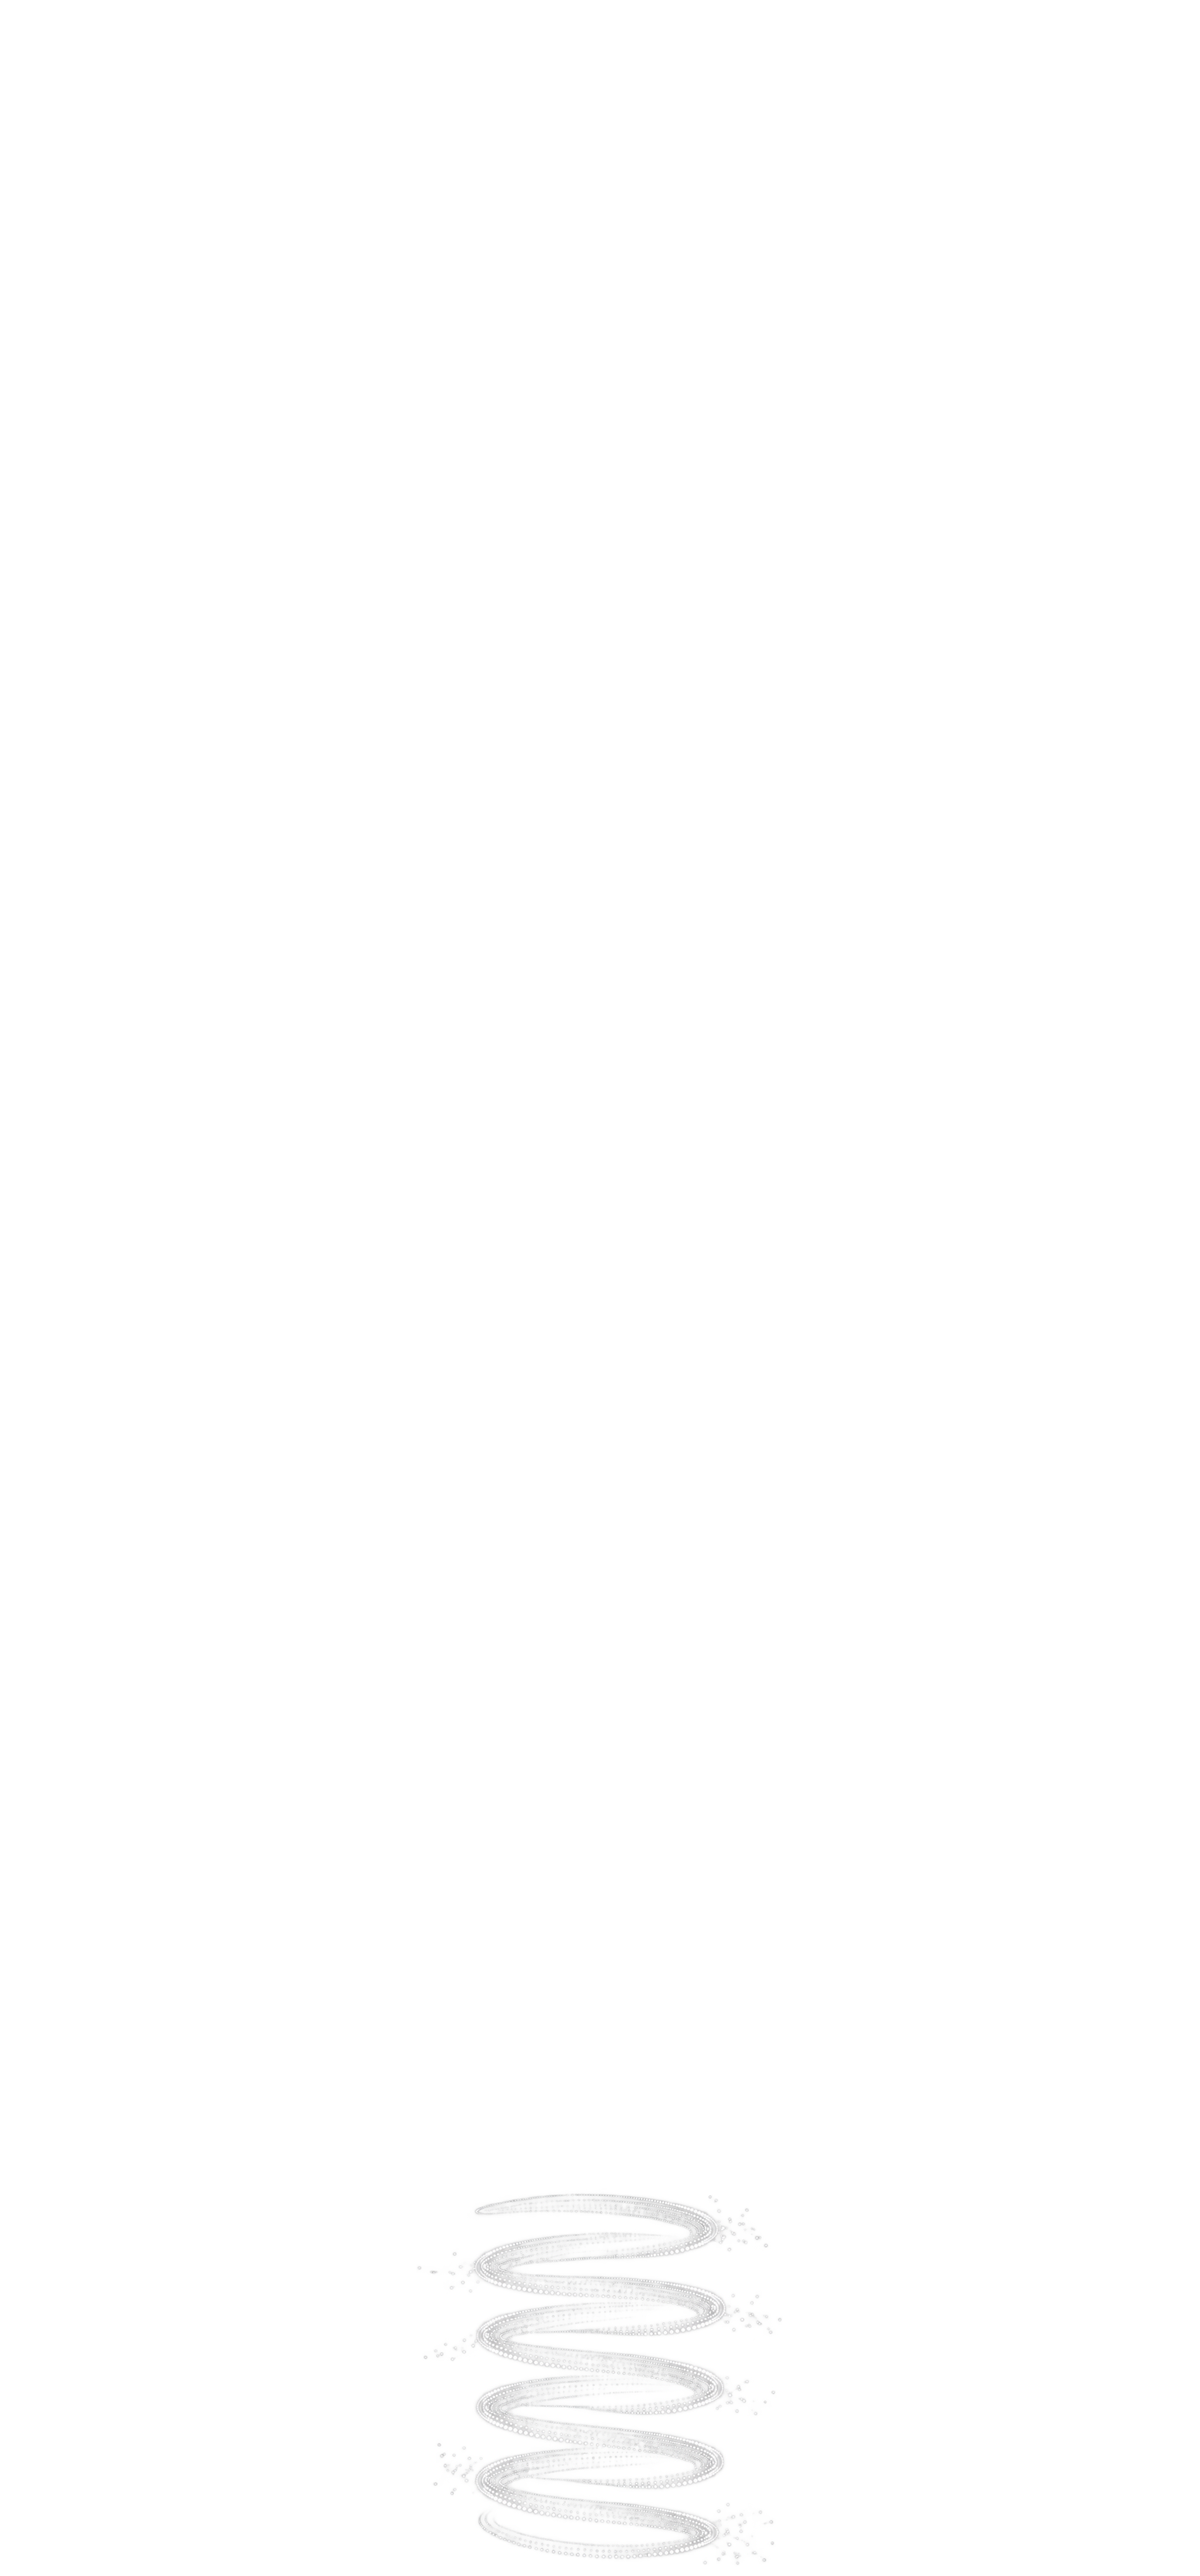
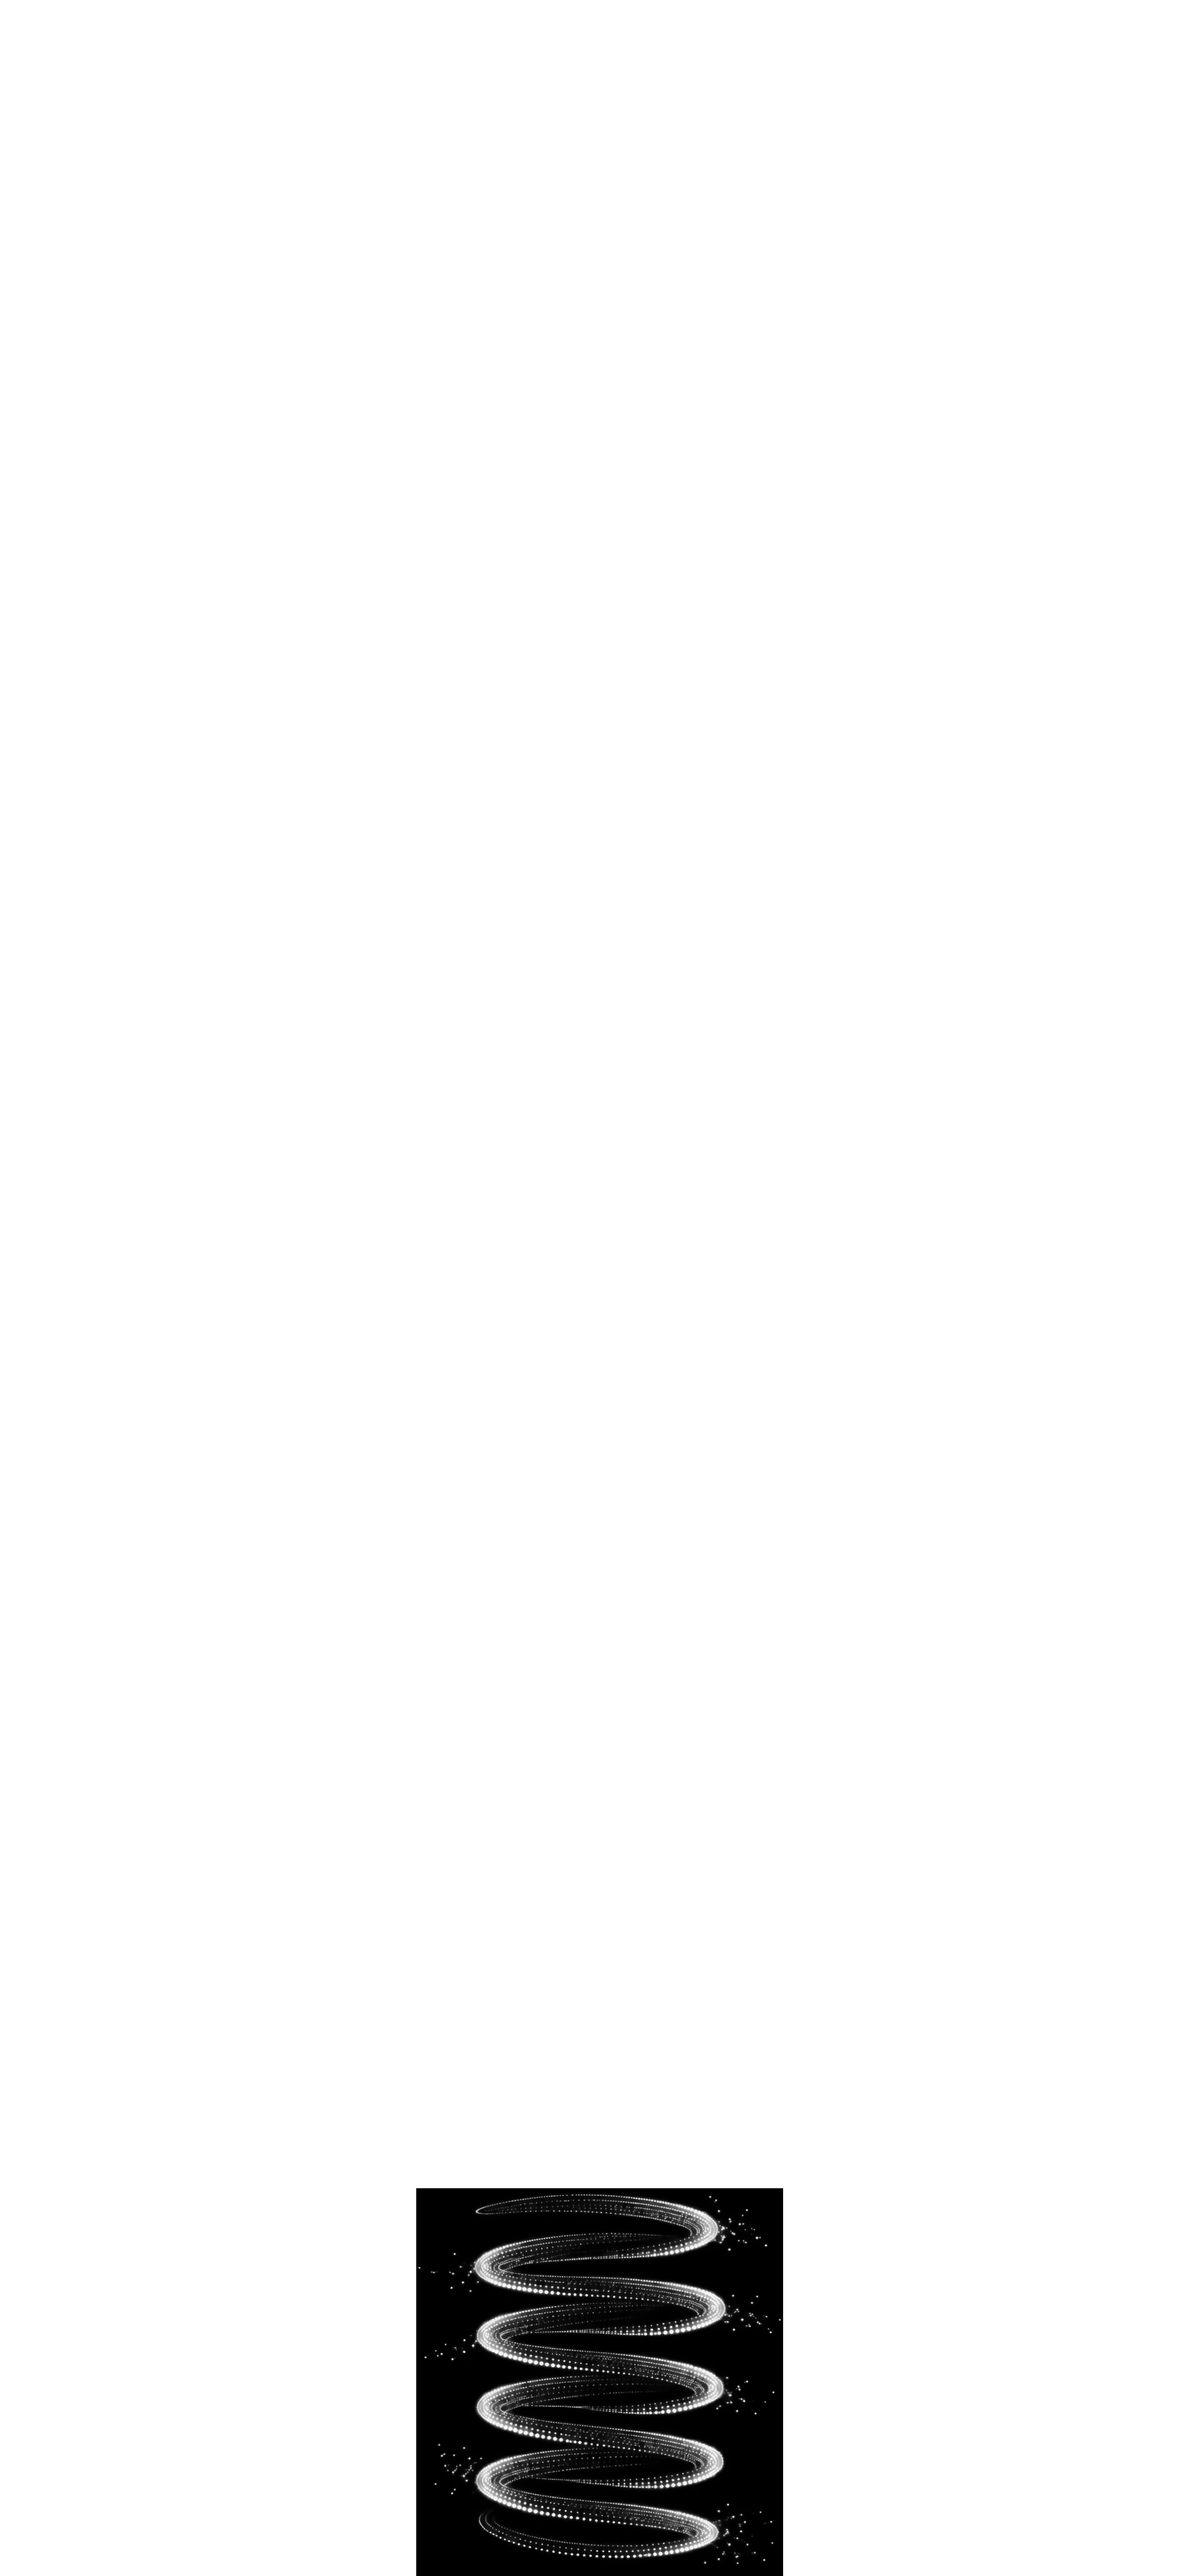
feat(01.fine): land the credits at 1:32:25 and sharpen the closing spiral
The roll now reaches the spiral twenty seconds earlier. The spiral is
rebuilt from the larger source and drawn opaque on black, because
FilmCraft blends in linear light and lifted its translucent dots into a
grey haze.

Changed region(s): [[0.3438, 0.839, 0.6562, 1.0]]

diff --git a/01.fine/assets/credits_spiral_hq.py b/01.fine/assets/credits_spiral_hq.py
@@ -1,0 +1,31 @@
+"""credits_spiral_6688.png -> credits_spiral_hq.png (크레딧 롤 맨 밑 나선).
+
+credits_spiral_6688.png 는 credits_spiral.png(1672x941) 와 같은 그림의 6688x3764 판이다(4배 확대본이라 디테일이
+크게 늘지는 않지만 620px 로 줄일 때 점 가장자리가 더 또렷하다). 보이는 영역(x 1772~4799, y 336~3535)만 잘라
+검정 위 합성 밝기 v 로 바꾸고 높이 620 으로 줄인 뒤, 가볍게 선명화한다(sigma 0.8, 0.5배, 3x3 최소값 아래로 안 내려감).
+
+FilmCraft 는 합성을 선형광으로 한다. 반투명 회색 점을 그대로 넣으면 검정 위에서 밝기 13 이 46 으로 떠서
+점 사이가 회색 안개처럼 뿌옇게 보였다. alpha 를 선형(v) 로 바꾸는 방법은 FilmCraft 가 PNG 를 8bit 로 읽어 어두운 쪽이
+밝기 0·13·18… 계단이 된다. 그래서 나선 사각형 전체를 불투명(alpha 255)하게 하고 RGB 에 v 를 그대로 넣는다.
+크레딧 롤 아래는 순수 검정 Color Matte 라 사각형 테두리는 보이지 않는다(배경이 검정이 아니게 되면 다시 생각할 것).
+
+  ../../bg/.venv/bin/python credits_spiral_hq.py
+"""
+import os
+import cv2
+import numpy as np
+
+os.chdir(os.path.dirname(os.path.abspath(__file__)))
+H = 620
+im = cv2.imread("credits_spiral_6688.png", cv2.IMREAD_UNCHANGED)[336:3536, 1772:4800]
+a = im[..., 3:4].astype(np.float64) / 255
+v = (im[..., :3].astype(np.float64) / 255 * a).mean(2)
+w = round(v.shape[1] * H / v.shape[0])
+v = np.clip(cv2.resize(v, (w, H), interpolation=cv2.INTER_AREA), 0, 1)
+sharp = v + 0.5 * (v - cv2.GaussianBlur(v, (0, 0), 0.8))
+v = np.clip(np.maximum(sharp, cv2.erode(v, np.ones((3, 3), np.uint8))), 0, 1)
+out = np.empty((H, w, 4), np.uint8)
+out[..., :3] = np.round(v * 255).astype(np.uint8)[..., None]
+out[..., 3] = 255
+cv2.imwrite("credits_spiral_hq.png", out)
+print("credits_spiral_hq.png", f"{w}x{H}")
